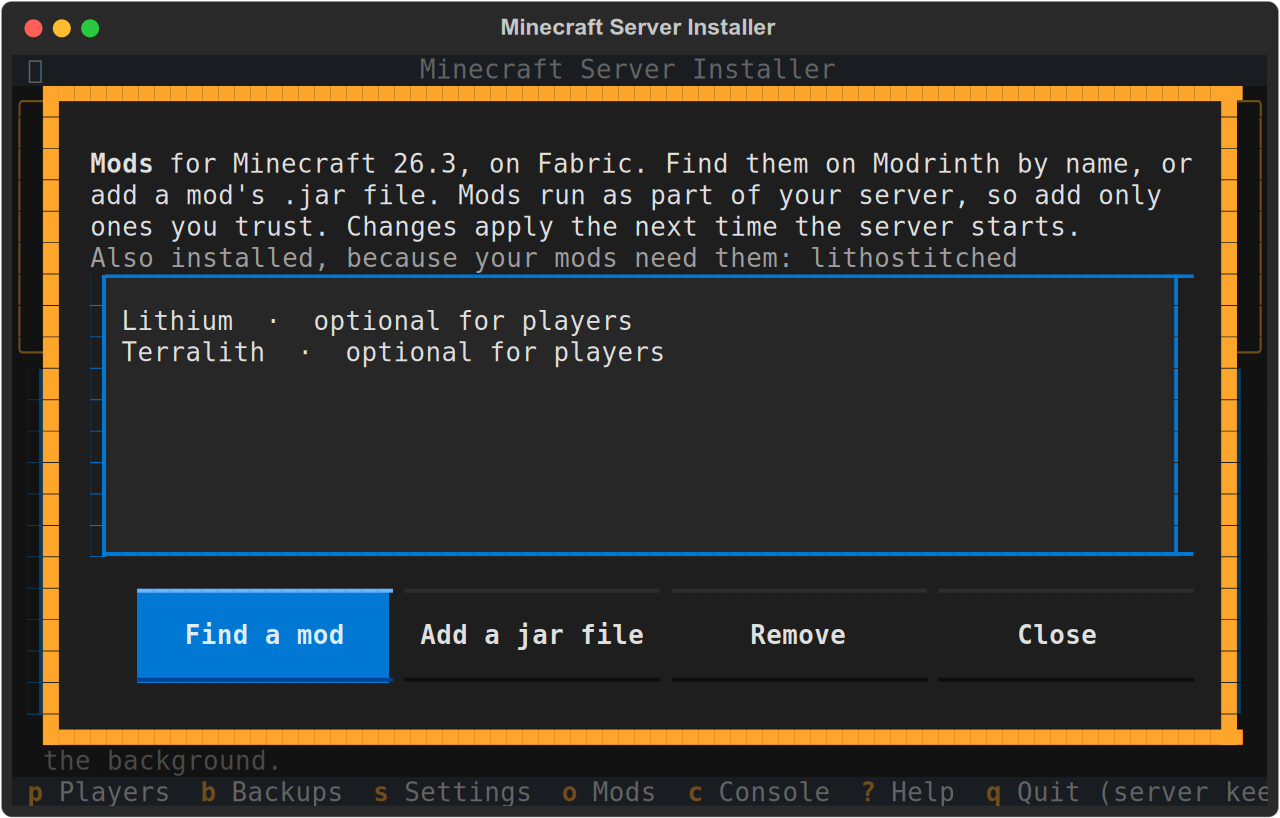
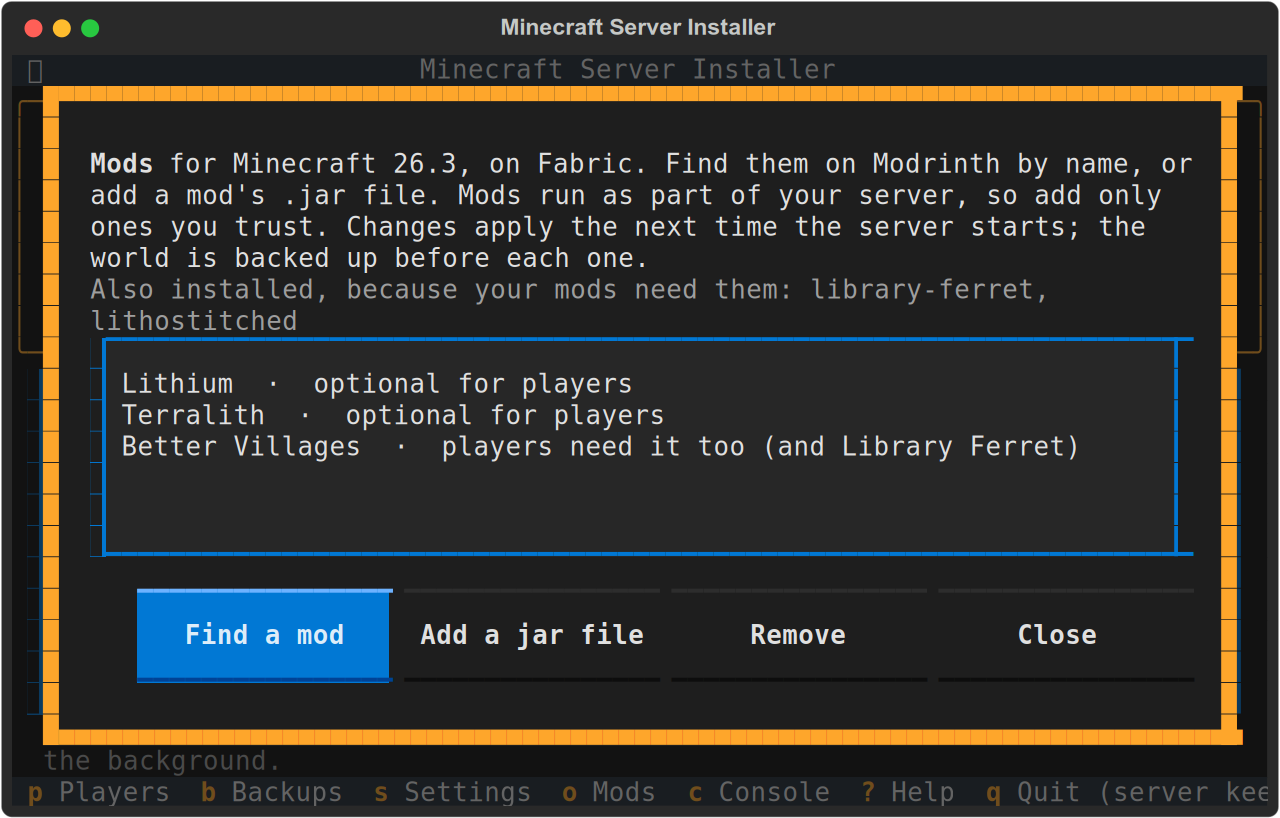
Refresh the Mods screenshot for 16.0
It shows the "backed up before each one" wording and a mod that players
need because of another mod (Better Villages and Library Ferret).

Changed region(s): [[0.0625, 0.3056, 0.9375, 0.5807], [0.875, 0.2751, 0.9062, 0.3056]]

diff --git a/README.md b/README.md
@@ -164,7 +164,7 @@ example); the menu says so when you add it, and shows it in the list.
 Mod changes count from the next time the server starts. Mods run as part of the
 server, so add only ones you trust.
 
-![Mods: Lithium and Terralith from Modrinth, and what players need](docs/screenshots/mods.png)
+![Mods: Lithium, Terralith and Better Villages from Modrinth, and what players need (Better Villages needs Library Ferret)](docs/screenshots/mods.png)
 
 ### Backups
 
